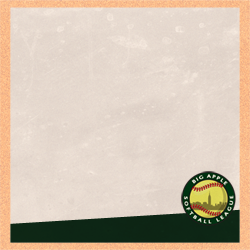
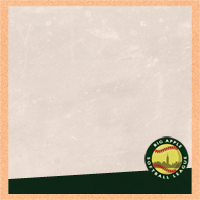
cleaning up hof styling

diff --git a/public/assets/hofsList-a0339b7ce58084f13a4bc13e2bc528d4.css b/public/assets/hofsList-a0339b7ce58084f13a4bc13e2bc528d4.css
@@ -1,0 +1,1 @@
+.hof-list{-webkit-perspective:1000;perspective:1000;font-family:'Montserrat', 'sans-serif';padding:0;margin:0}.hof-list .hof-card{position:relative;float:left;margin:5px;width:200px;height:200px;-webkit-transition:0.6s;transition:0.6s;-webkit-transform-style:preserve-3d;transform-style:preserve-3d;cursor:pointer;color:#fff}.hof-list .hof-card:hover{-webkit-transform:rotateY(180deg);transform:rotateY(180deg)}.hof-list .hof-card .hof-card-front,.hof-list .hof-card .hof-card-back{-webkit-backface-visibility:hidden;backface-visibility:hidden;position:absolute;top:0;left:0}.hof-list .hof-card .hof-card-front{position:absolute;z-index:2;-webkit-transform:rotateY(0deg);transform:rotateY(0deg);width:200px;height:200px}.hof-list .hof-card .hof-card-front .hof-card-image img{width:100%;height:100%}.hof-list .hof-card .hof-card-front .hof-card-image .hof-card-overlay{width:200px;height:200px;background:url(/images/hof-card.png?2) no-repeat 0 0;position:absolute;top:0;left:0}.hof-list .hof-card .hof-card-front .hof-card-name{position:absolute;bottom:11px;right:10px;font-size:13px;width:225px;text-align:right;overflow:hidden;margin-right:5px}.hof-list .hof-card .hof-card-front .hof-card-year{position:absolute;left:35px;bottom:28px;font-size:22px;color:black}.hof-list .hof-card .hof-card-back{width:100%;height:100%;-webkit-transform:rotateY(180deg);transform:rotateY(180deg);width:200px;height:200px;color:#5c5a5a;background:#f6c49a url(/images/hof-card-back.png?2) no-repeat 0 0}.hof-list .hof-card .hof-card-back .hof-card-back-container{padding:15px}.hof-list .hof-card .hof-card-back .hof-card-name{text-align:center;font-size:18px}.hof-list .hof-card .hof-card-back .hof-card-inducted{font-size:14px}.hof-list .hof-card .hof-card-back .hof-card-player-details p{font-size:12px;max-height:128px;overflow:auto}

diff --git a/app/assets/stylesheets/hofsList.css.scss b/app/assets/stylesheets/hofsList.css.scss
@@ -8,8 +8,8 @@
     position: relative;
     float: left;
     margin: 5px;
-    width: 250px;
-    height: 250px;
+    width: 200px;
+    height: 200px;
     transition: 0.6s;
     transform-style: preserve-3d;
     cursor: pointer;
@@ -32,8 +32,8 @@
       z-index: 2;
       /* for firefox 31 */
       transform: rotateY(0deg);
-      width: 250px;
-      height: 250px;
+      width: 200px;
+      height: 200px;
 
       .hof-card-image {
         img {
@@ -41,9 +41,9 @@
           height: 100%;
         }
         .hof-card-overlay {
-          width: 250px;
-          height: 250px;
-          background: image_url('hof-card.png?1') no-repeat 0 0;
+          width: 200px;
+          height: 200px;
+          background: image_url('hof-card.png?2') no-repeat 0 0;
           position: absolute;
           top: 0;
           left: 0;
@@ -74,10 +74,10 @@
       width: 100%;
       height: 100%;
       transform: rotateY(180deg);
-      width: 250px;
-      height: 250px;
+      width: 200px;
+      height: 200px;
       color: rgb(92, 90, 90);
-      background: #f6c49a image_url('hof-card-back.png?1') no-repeat 0 0;
+      background: #f6c49a image_url('hof-card-back.png?2') no-repeat 0 0;
 
       .hof-card-back-container {
         padding: 15px;
@@ -94,7 +94,7 @@
 
       .hof-card-player-details p {
         font-size: 12px;
-        max-height: 175px;
+        max-height: 128px;
         overflow: auto;
       }
     }
